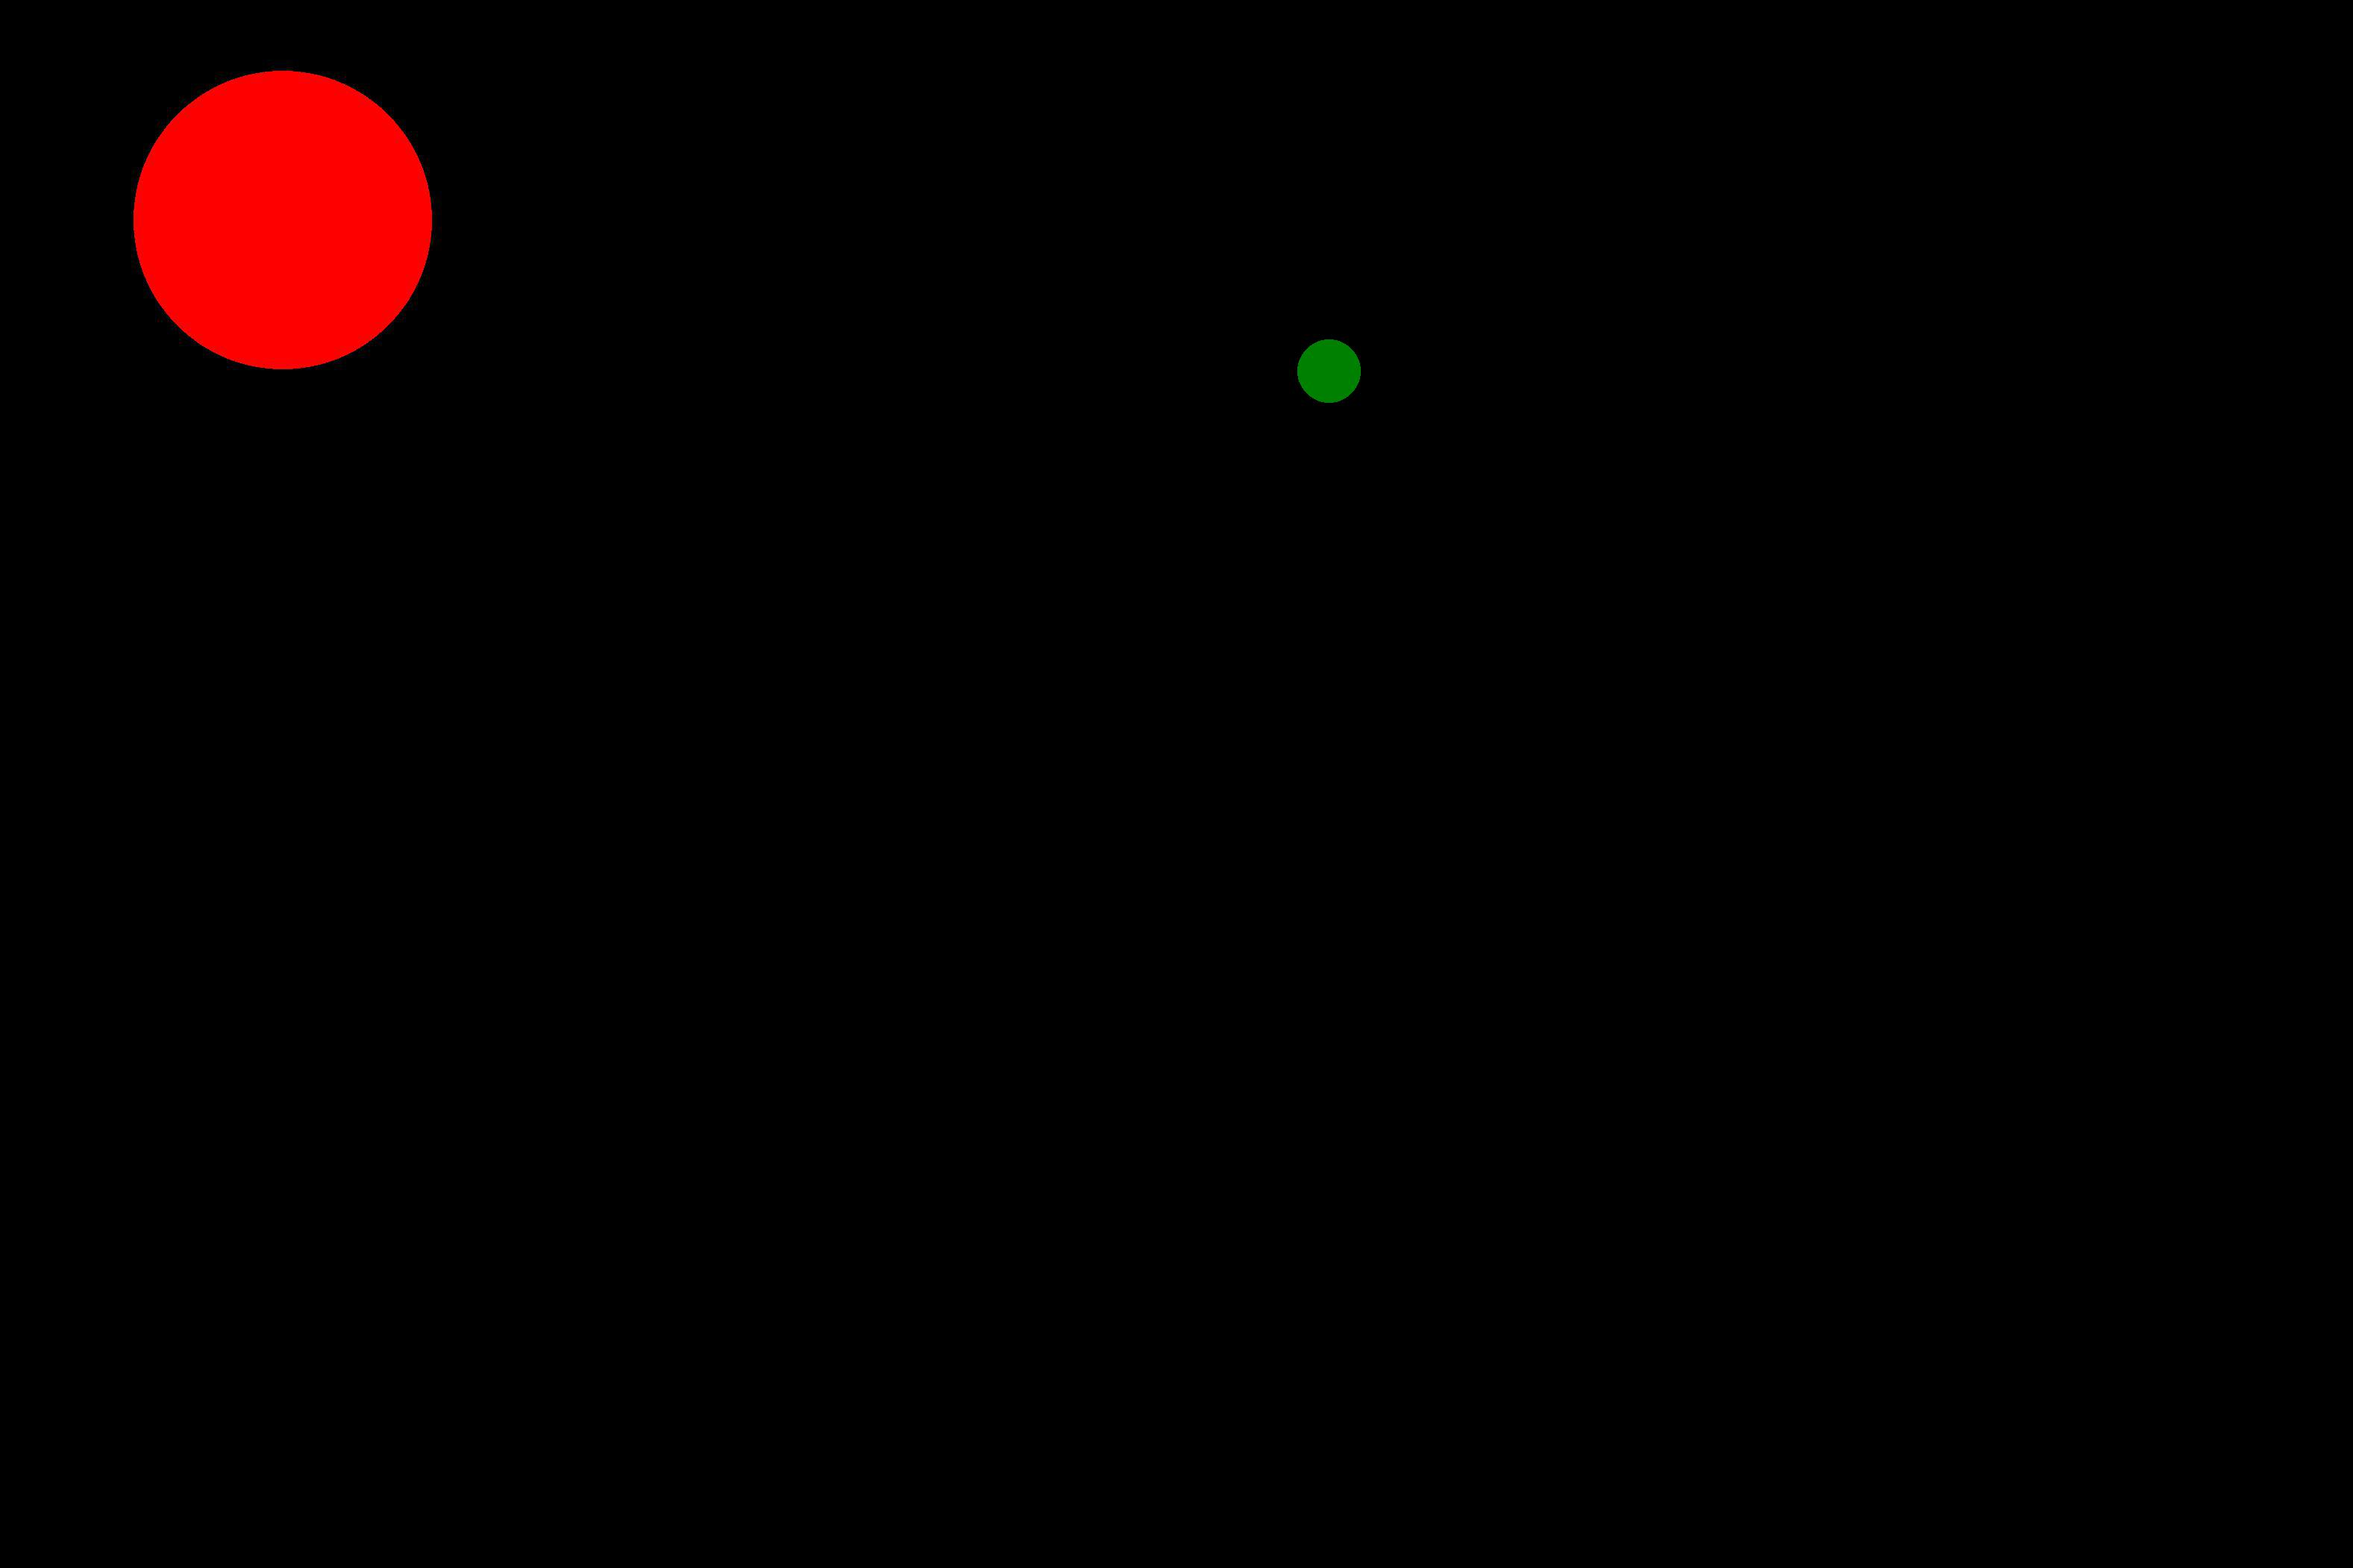
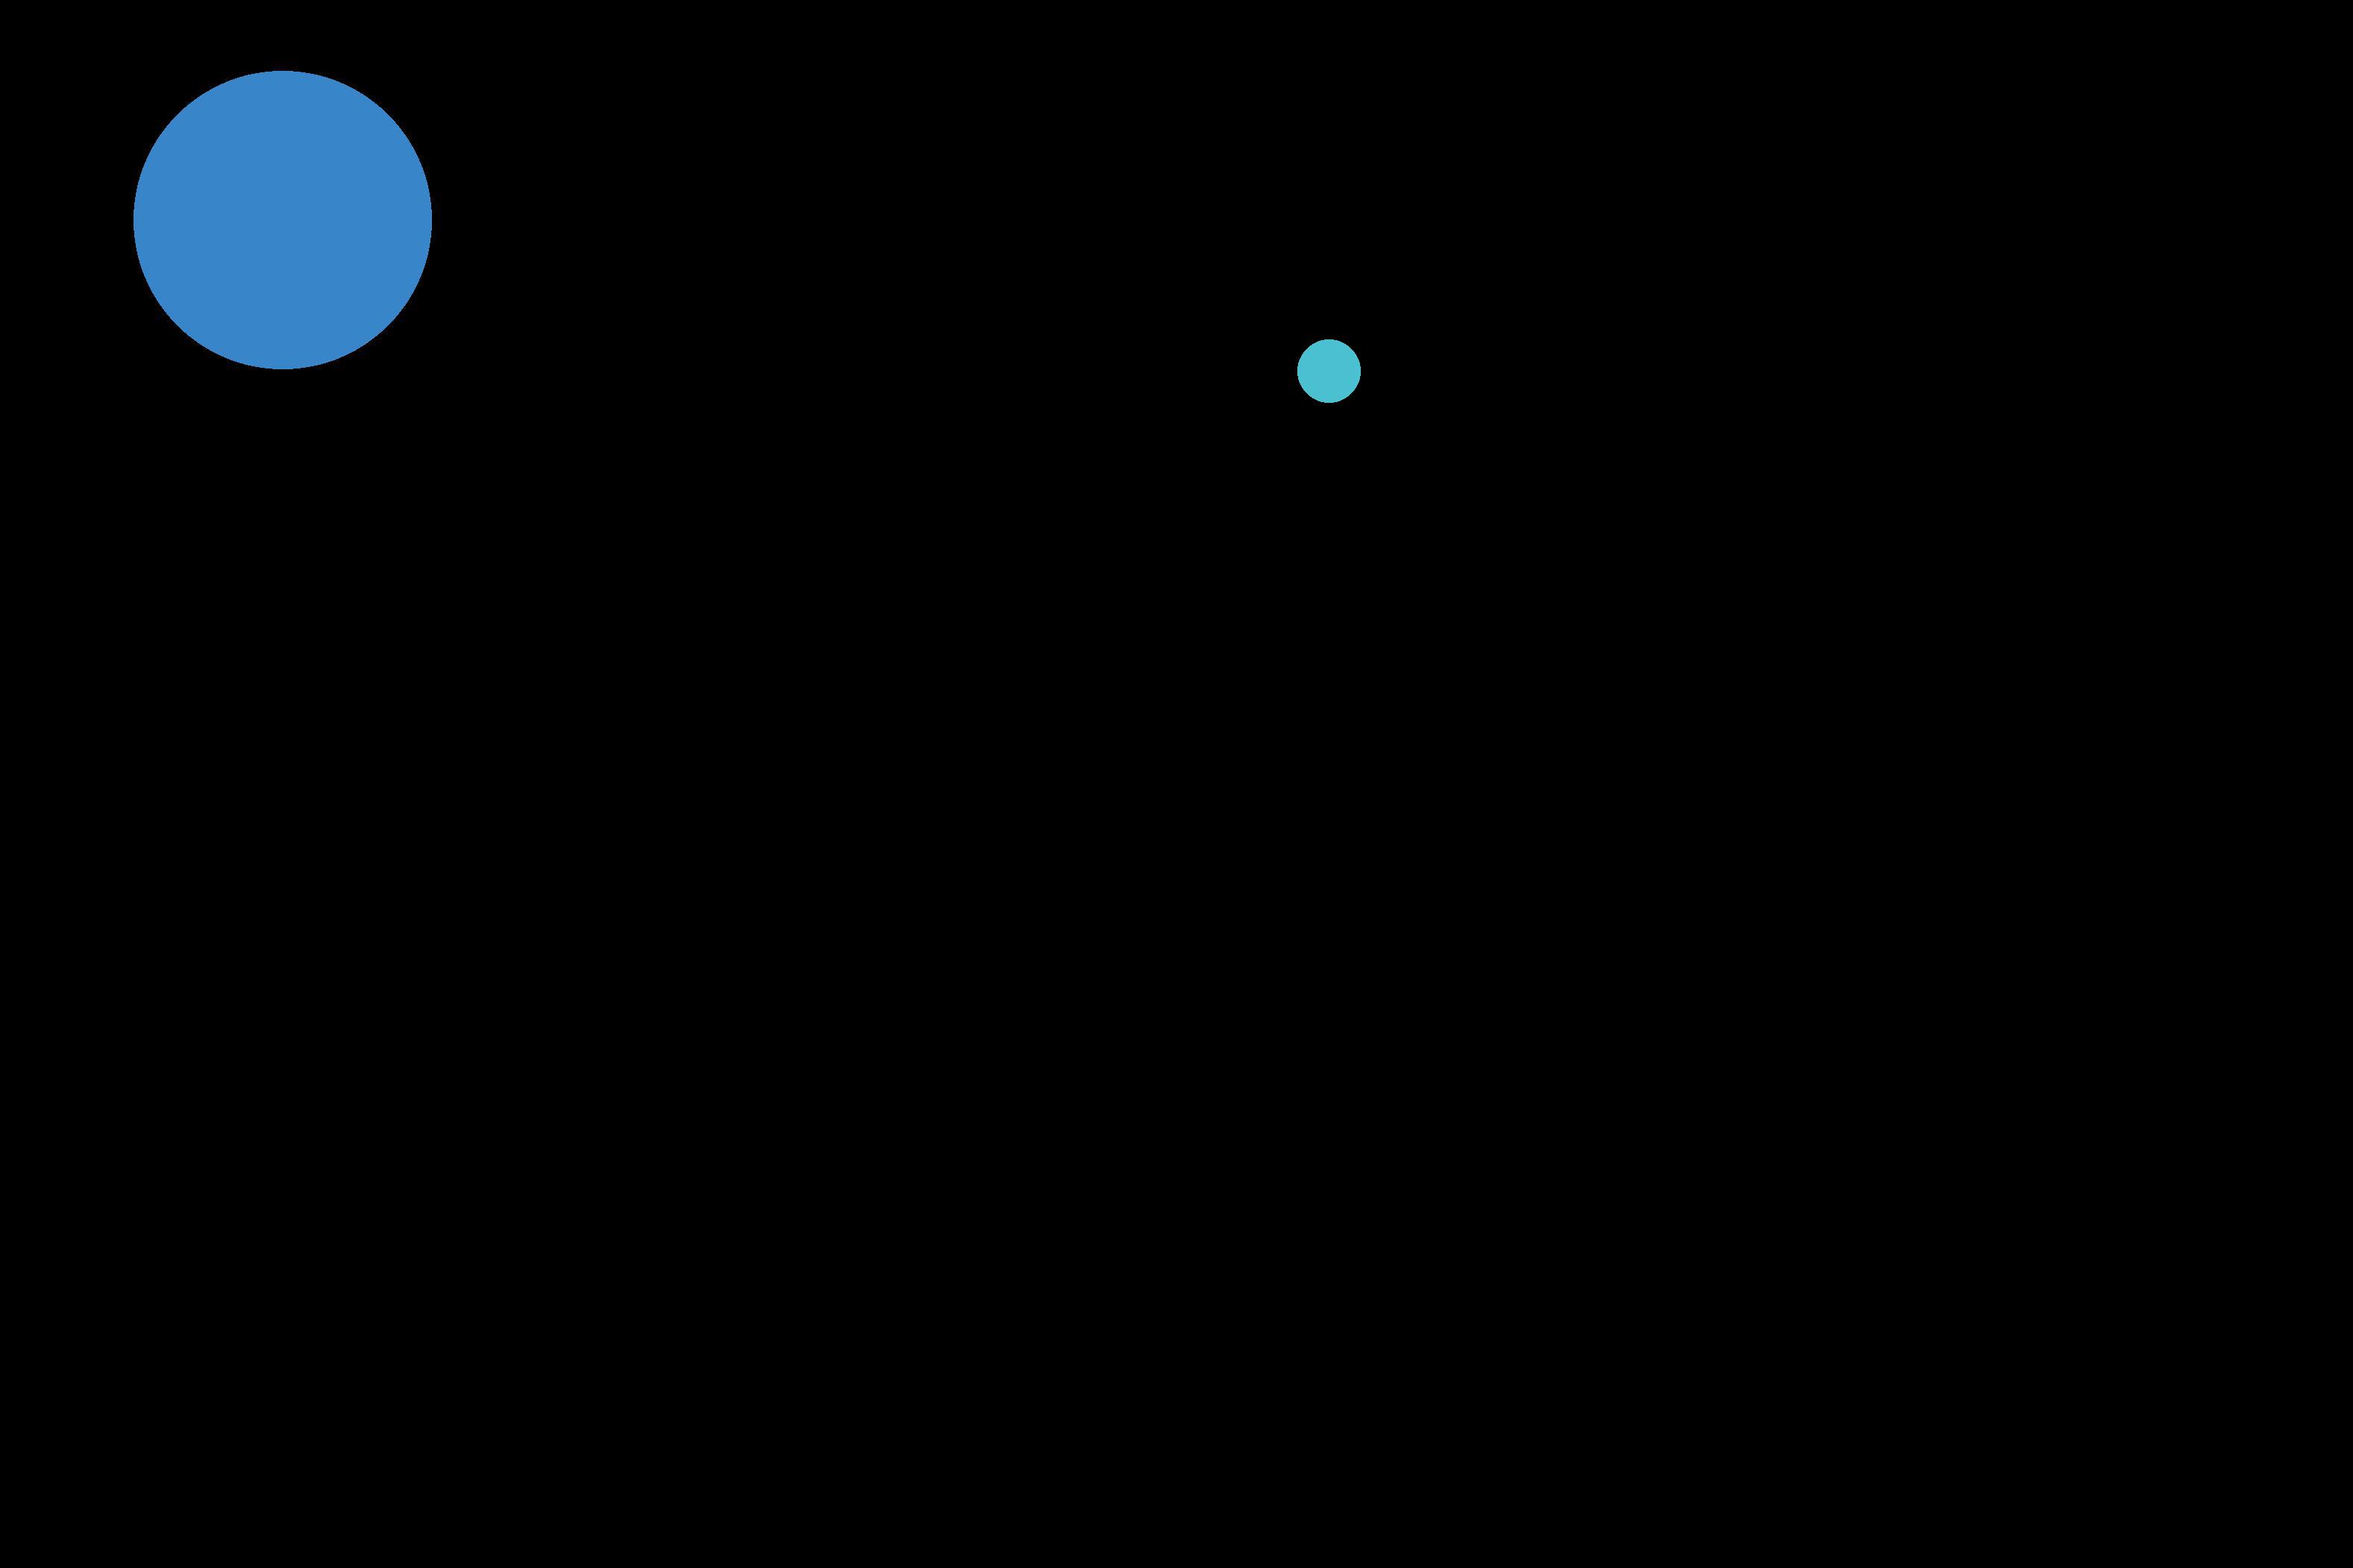
fixed enter path from console and generate color code base on label

Changed region(s): [[0.0311, 0.0309, 0.1864, 0.2474], [0.5282, 0.2165, 0.5904, 0.2783]]

diff --git a/convert_csv_to_mask.py b/convert_csv_to_mask.py
@@ -3,75 +3,104 @@ import csv
 from PIL import Image, ImageDraw
 import os
 
-# Color definition
-ECHINODERMS = 'red'
-MOLLUSCS = 'green'
-FISH = 'orange'
-WORMS = 'yellow'
-CRUSTACEA = 'blue'
-
-# Get color by label
-# strip() : label string from csv file may have \n
+# Generate color code base on input string
+# With each string will generated only one color code
 
 
-def getColorByLabel(label):
-    if label.strip() == 'Echinoderms':
-        return ECHINODERMS
-    elif label.strip() == 'Molluscs':
-        return MOLLUSCS
-    elif label.strip() == 'Fish':
-        return FISH
-    elif label.strip() == 'Worms':
-        return WORMS
-    else:
-        return CRUSTACEA
+def hashCode(label):
+    hash = 0
+    for i in range(len(label)):
+        hash = ord(label[i]) + ((hash << 5) - hash)
+    return hash
+
+
+def intToRGB(i):
+    c = (i & 0x00FFFFFF)
+    c = hex(c).lstrip('0x')
+    c.upper()
+    str = "00000"
+    return str[0:6-len(c)] + c
 
 # Draw dot
 
 
 def drawDot(x, y, radius, label, imageHeight):
-    dotColor = getColorByLabel(label)
+    # get dot color
+    dotColor = "#" + intToRGB(hashCode(label))
     draw = ImageDraw.Draw(image)
     draw.ellipse((x-radius, imageHeight-(y+radius), x+radius,
                  imageHeight-y+radius), fill=dotColor, outline=dotColor)
 
 
-# Create folder images if not exist
-IMG_PATH = "images/"
-if not os.path.exists(IMG_PATH):
-    os.makedirs(IMG_PATH)
 # Save previous row's file name
 previousFileName = ""
-# Open csv file
-with open('testcsv.csv') as csv_file:
-    csv_reader = csv.reader(csv_file, delimiter=',')
-    line_count = 0
-    # row_count = sum(1 for row in fileObject);
-    for row in csv_reader:
-        if line_count == 0:
-            print('Processing ...')
-            line_count += 1
-        else:
-            # Same file name
-            if(previousFileName == row[0]):
-                # open exist file
-                image = Image.open(IMG_PATH+row[0])
-                # Draw dot
-                drawDot(float(row[2]), float(row[3]),
-                        float(row[4]), row[1], float(row[6]))
-                image.save(IMG_PATH+row[0])
-                line_count += 1
-            # Different file name
+# Check param for while loop: enter the csv path
+checkEnterCSV = True
+while(checkEnterCSV):
+    # Enter the csv path from console
+    csvPath = input("Enter the path of your csv file: ")
+    if(os.path.isfile(csvPath)):
+        checkEnterCSV = False
+
+        # Check param for while loop: enter images path
+        checkEnterImgPath = True
+        while(checkEnterImgPath):
+            # Enter path for save result images
+            imagesPath = input(
+                "Enter the path to the folder where you want to save the image: ")
+            # If images path not exist
+            if not os.path.isdir(imagesPath):
+                confirmCreateImgPath = input(
+                    "The path that you entered not exist, Do you want to create this link? (Y/N)")
+                if confirmCreateImgPath == 'Y' or confirmCreateImgPath == 'y':
+                    # Create path
+                    os.mkdir(imagesPath)
+                    checkEnterImgPath = False
+                elif confirmCreateImgPath == 'N' or confirmCreateImgPath == 'n':
+                    #Confirm: 'N' or 'n'
+                    print("Your answer is 'no'. Please retype!")
+                else:
+                    # confirm with other character
+                    print("Your answer is not valid!")
             else:
-                # Save the current filename to check if the filename matches in the next loop
-                previousFileName = row[0]
-                # Create image
-                imgWidth = int(row[5])
-                imgHeight = int(row[6])
-                image = Image.new('RGB', (imgWidth, imgHeight))
-                # Draw dot
-                drawDot(float(row[2]), float(row[3]),
-                        float(row[4]), row[1], float(row[6]))
-                image.save(IMG_PATH+row[0])
-                line_count += 1
-    print(f'Processed {line_count} lines.')
+                # Entered images path right
+                print(f'Your images path that you entered is: {imagesPath}')
+                checkEnterImgPath = False
+
+        # Open csv file
+        with open(csvPath) as csv_file:
+            csv_reader = csv.reader(csv_file, delimiter=',')
+            line_count = 0
+            # row_count = sum(1 for row in fileObject);
+            for row in csv_reader:
+                if line_count == 0:
+                    print('Processing ...')
+                    line_count += 1
+                else:
+                    print(
+                        f'line {line_count}: images: {row[0]} with label: {row[1]}')
+                    # Same file name
+                    if(previousFileName == row[0]):
+                        # open exist file
+                        image = Image.open(imagesPath + '/'+row[0])
+                        # Draw dot
+                        drawDot(float(row[2]), float(row[3]),
+                                float(row[4]), row[1], float(row[6]))
+                        image.save(imagesPath+'/'+row[0])
+                        line_count += 1
+                    # Different file name
+                    else:
+                        # Save the current filename to check if the filename matches in the next loop
+                        previousFileName = row[0]
+                        # Create image
+                        imgWidth = int(row[5])
+                        imgHeight = int(row[6])
+                        image = Image.new('RGB', (imgWidth, imgHeight))
+                        # Draw dot
+                        drawDot(float(row[2]), float(row[3]),
+                                float(row[4]), row[1], float(row[6]))
+                        image.save(imagesPath+'/'+row[0])
+                        line_count += 1
+            print(f'Processed {line_count} lines.')
+    else:
+        print("Entered csv file not exist!")
